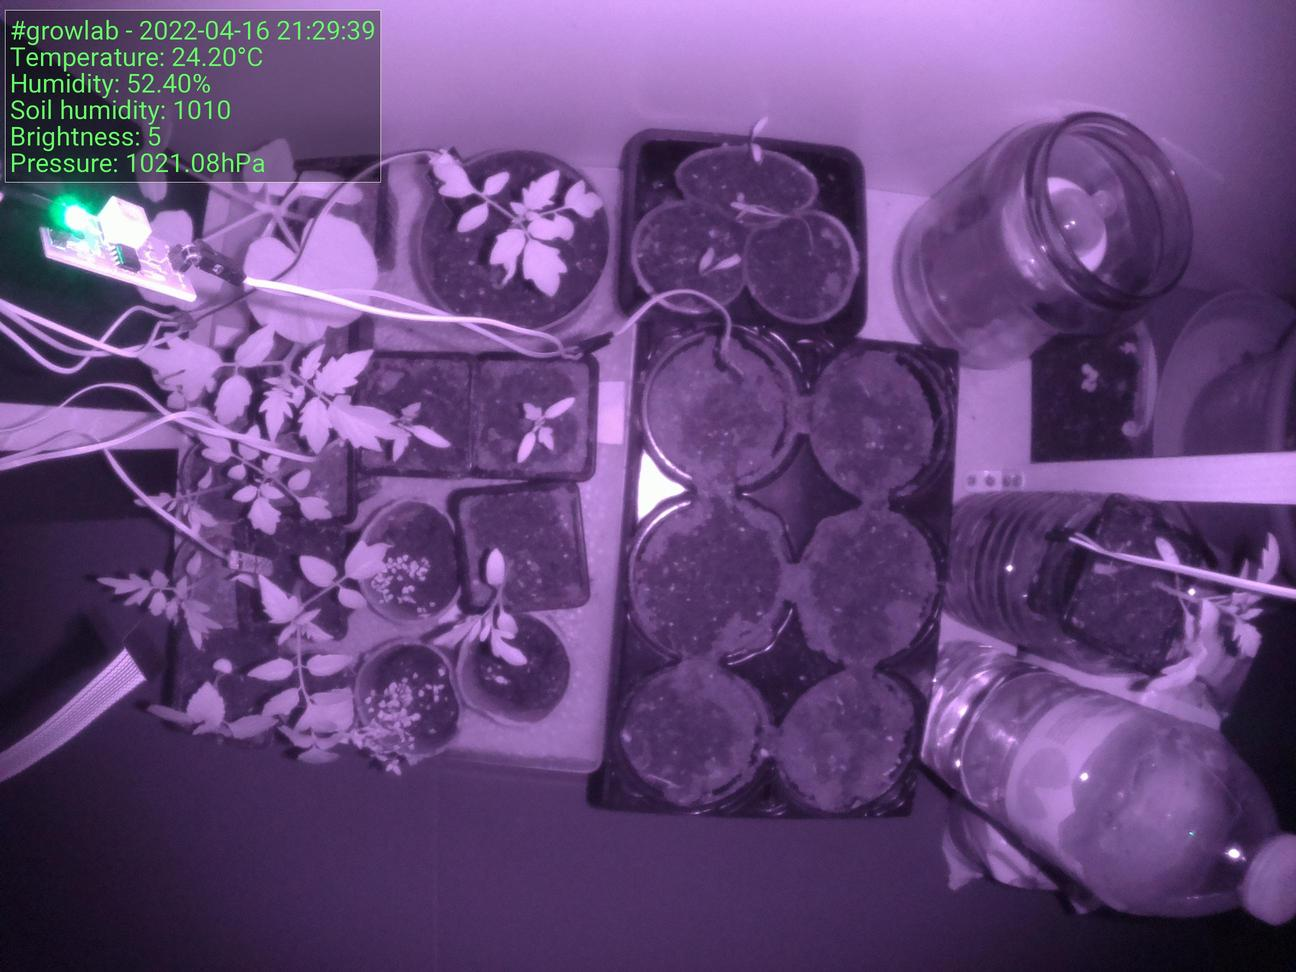
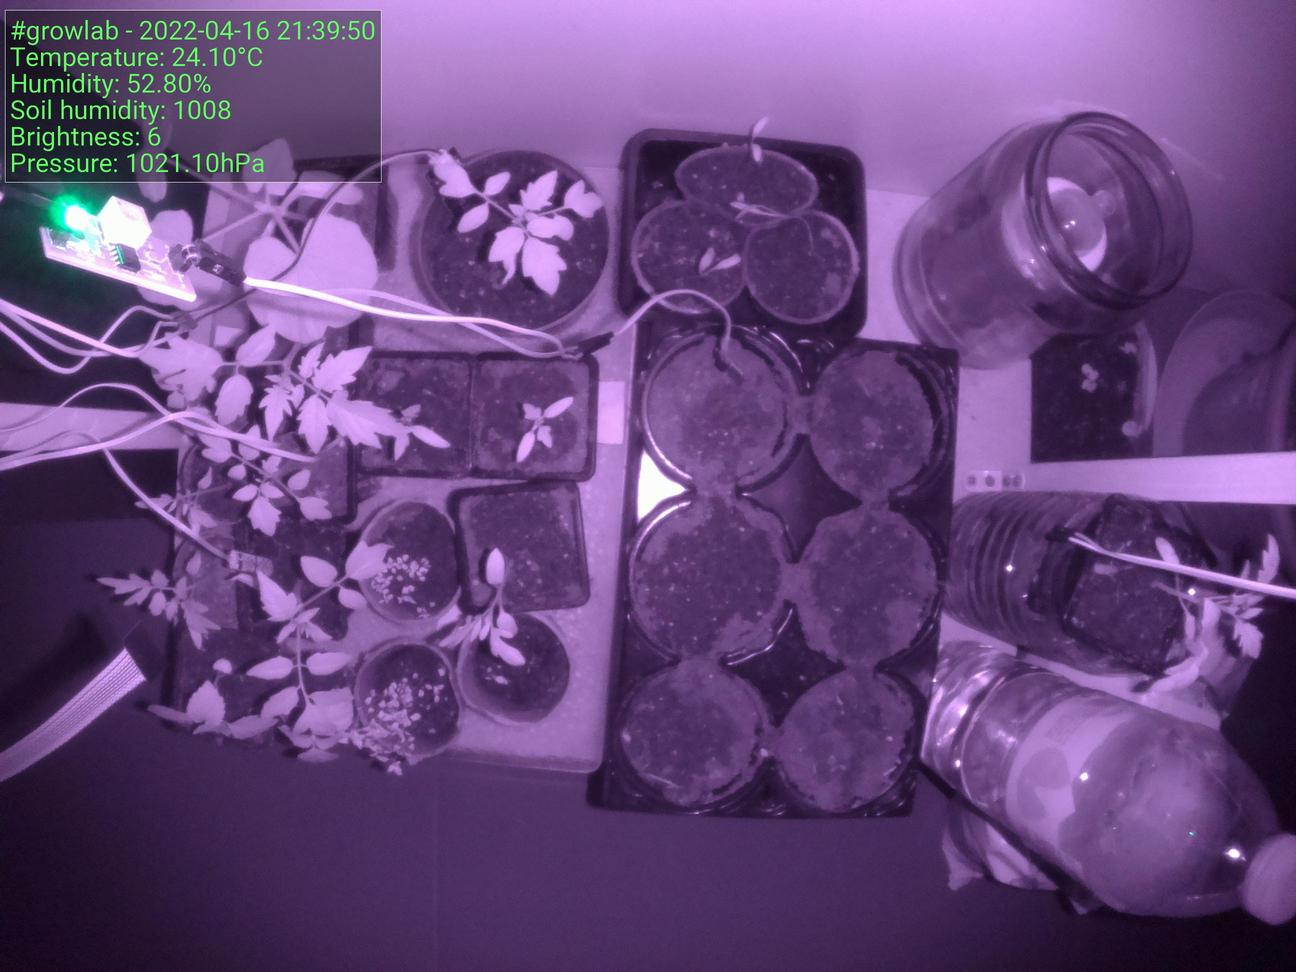
:bento: Update preview

diff --git a/index.html b/index.html
@@ -39,15 +39,15 @@
                     <tbody>
                         <tr>
                             <td>Time</td>
-                            <td>2022-04-16 21:29:39</td>
+                            <td>2022-04-16 21:39:50</td>
                         </tr>
                         <tr>
                             <td>Temperature</td>
-                            <td>24.20°C</td>
+                            <td>24.10°C</td>
                         </tr>
                         <tr>
                             <td>Humidity</td>
-                            <td>52.40%</td>
+                            <td>52.80%</td>
                         </tr>
                     </tbody>
                 </table>
@@ -55,7 +55,7 @@
 
                 <h5>Latest image</h5>
 		<div style="width: 85%;">
-	                <img class="figure-img img-fluid rounded" src="./preview.jpg?uid=1650137386.923074">
+	                <img class="figure-img img-fluid rounded" src="./preview.jpg?uid=1650137998.1962883">
 		</div>
             </div>
         </div>
